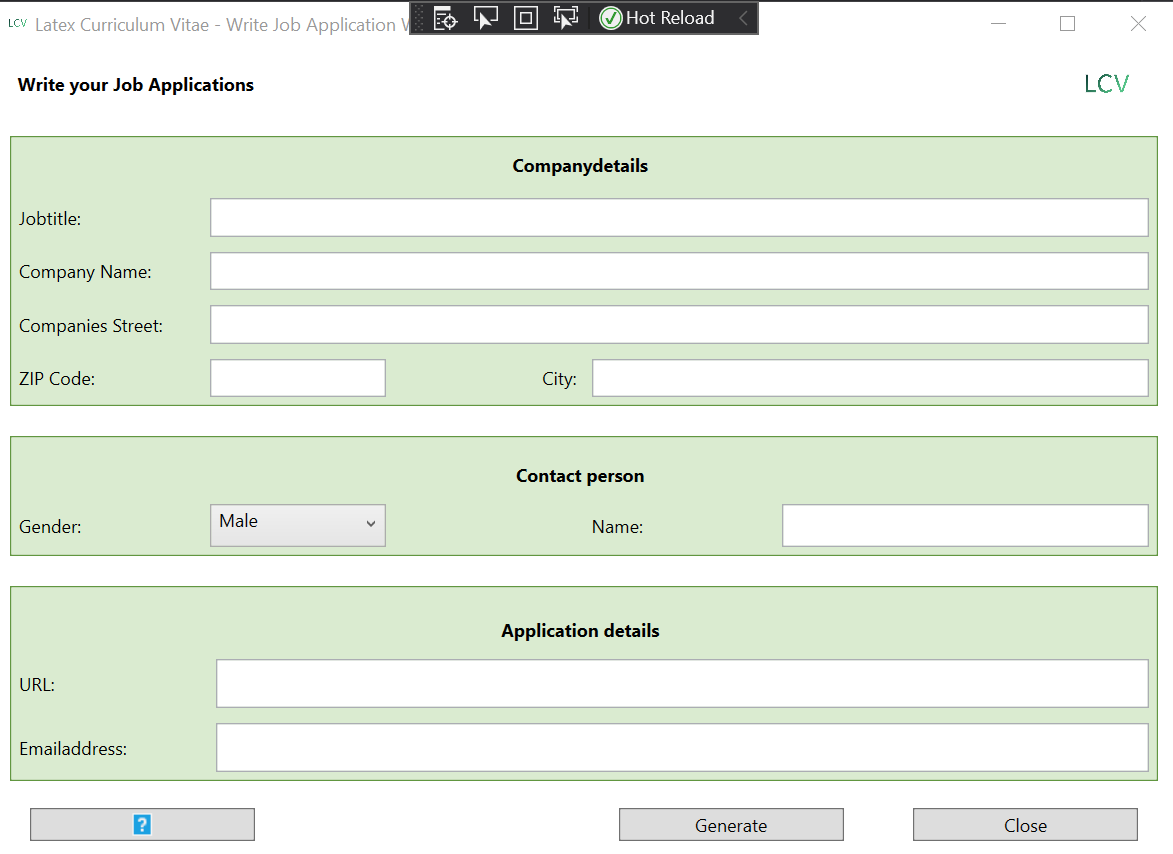
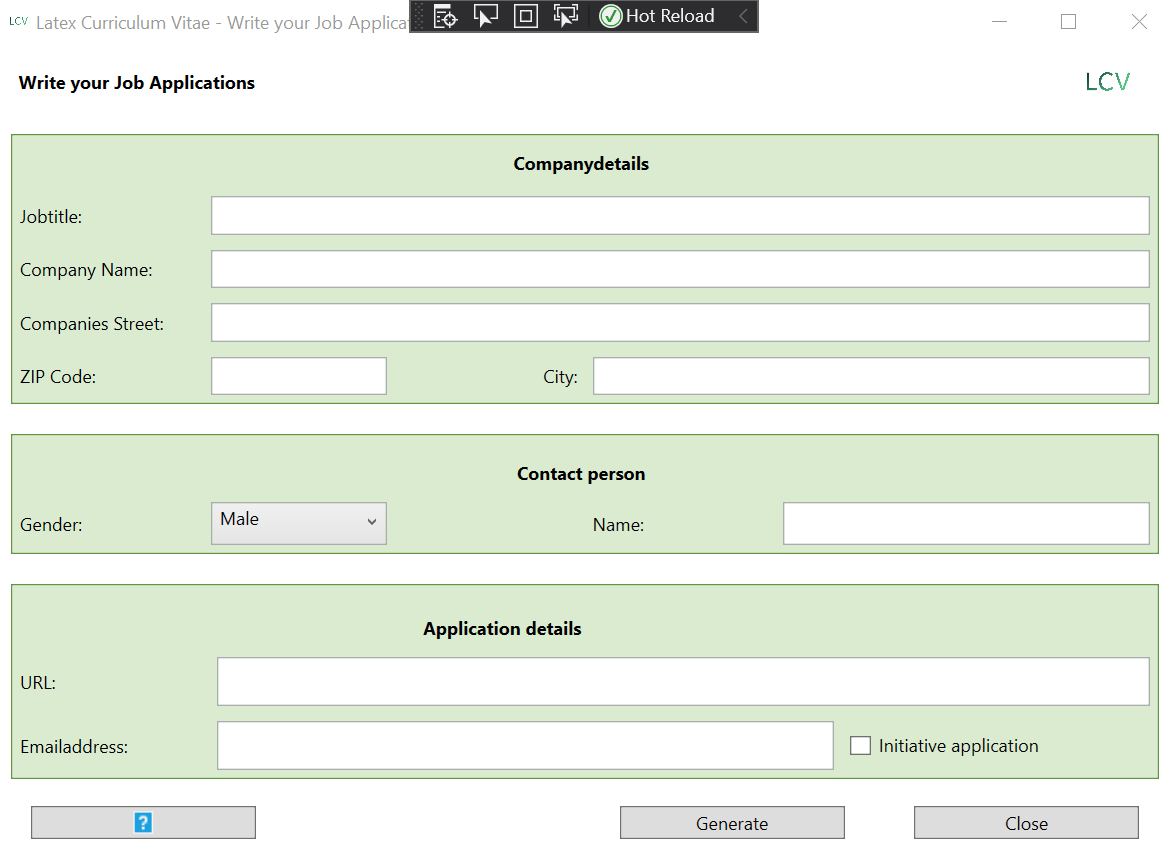
Renewed Image for WJA Window, Added Database Window to Main Menue

diff --git a/latex_curriculum_vitae/Views/MainWindow.xaml.cs b/latex_curriculum_vitae/Views/MainWindow.xaml.cs
@@ -15,6 +15,9 @@
 
 // Dependencies
 
+using latex_curriculum_vitae.Data;
+using Microsoft.EntityFrameworkCore;
+using Microsoft.Extensions.DependencyInjection;
 using System;
 using System.Windows;
 
@@ -25,6 +28,9 @@ namespace latex_curriculum_vitae
     /// </summary>
     public partial class MainWindow : Window
     {
+        #region Private members
+        private ServiceProvider serviceProvider;
+        #endregion
 
         #region Initialize Main
         public MainWindow()
@@ -49,7 +55,17 @@ namespace latex_curriculum_vitae
 
         public void BtnGoDatabase_Click(object sender, EventArgs e)
         {
-            MessageBox.Show("This feature is currently not supported.", "Information", MessageBoxButton.OK, MessageBoxImage.Information);
+            ServiceCollection services = new ServiceCollection();
+            services.AddDbContext<JobApplicationDataDbContext>(options =>
+            {
+                options.UseSqlite("Data Source = JobApplications.db");
+            });
+
+            services.AddSingleton<DatabaseWindow>();
+            serviceProvider = services.BuildServiceProvider();
+
+            var databaseWindow = serviceProvider.GetService<DatabaseWindow>();
+            databaseWindow.Show();
         }
     }
 }

diff --git a/latex_curriculum_vitae/App.xaml.cs b/latex_curriculum_vitae/App.xaml.cs
@@ -27,23 +27,12 @@ namespace latex_curriculum_vitae
     public partial class App : Application
     {
 
-        //#region Private members
-        //private readonly ServiceProvider serviceProvider;
-        //#endregion
+        #region Constructor
+        public App()
+        {
 
-        //#region Constructor
-        //public App()
-        //{
-        //    ServiceCollection services = new ServiceCollection();
-        //    services.AddDbContext<JobApplicationDataDbContext>(options =>
-        //    {
-        //        options.UseSqlite("Data Source = JobApplications.db");
-        //    });
-
-        //    services.AddSingleton<DatabaseWindow>();
-        //    serviceProvider = services.BuildServiceProvider();
-        //}
-        //#endregion
+        }
+        #endregion
 
         #region Event Handlers
         private void OnStartup(object s, StartupEventArgs e)
